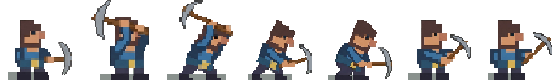
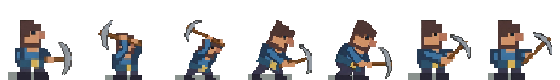
이미지 수정 / 출력 위치 수정

Changed region(s): [[0.1518, 0.0, 0.425, 1.0]]

diff --git a/Project/player.py b/Project/player.py
@@ -121,10 +121,10 @@ class Player:
                 self.mining_image.h,
                 0,
                 "h" if self.direction == "left" else "",
-                self.x - camera.x,
-                self.y - camera.y - (8 if self.mining_frame in (1, 2) else 0),
-                70 if self.mining_frame in (1, 2) else SPRITE_DRAW_WIDTH,
-                80 if self.mining_frame in (1, 2) else SPRITE_DRAW_HEIGHT,
+                self.x - camera.x+4,
+                self.y - camera.y+ 8,
+                SPRITE_DRAW_WIDTH + 28,
+                SPRITE_DRAW_HEIGHT + 20,
             )
             return
 
